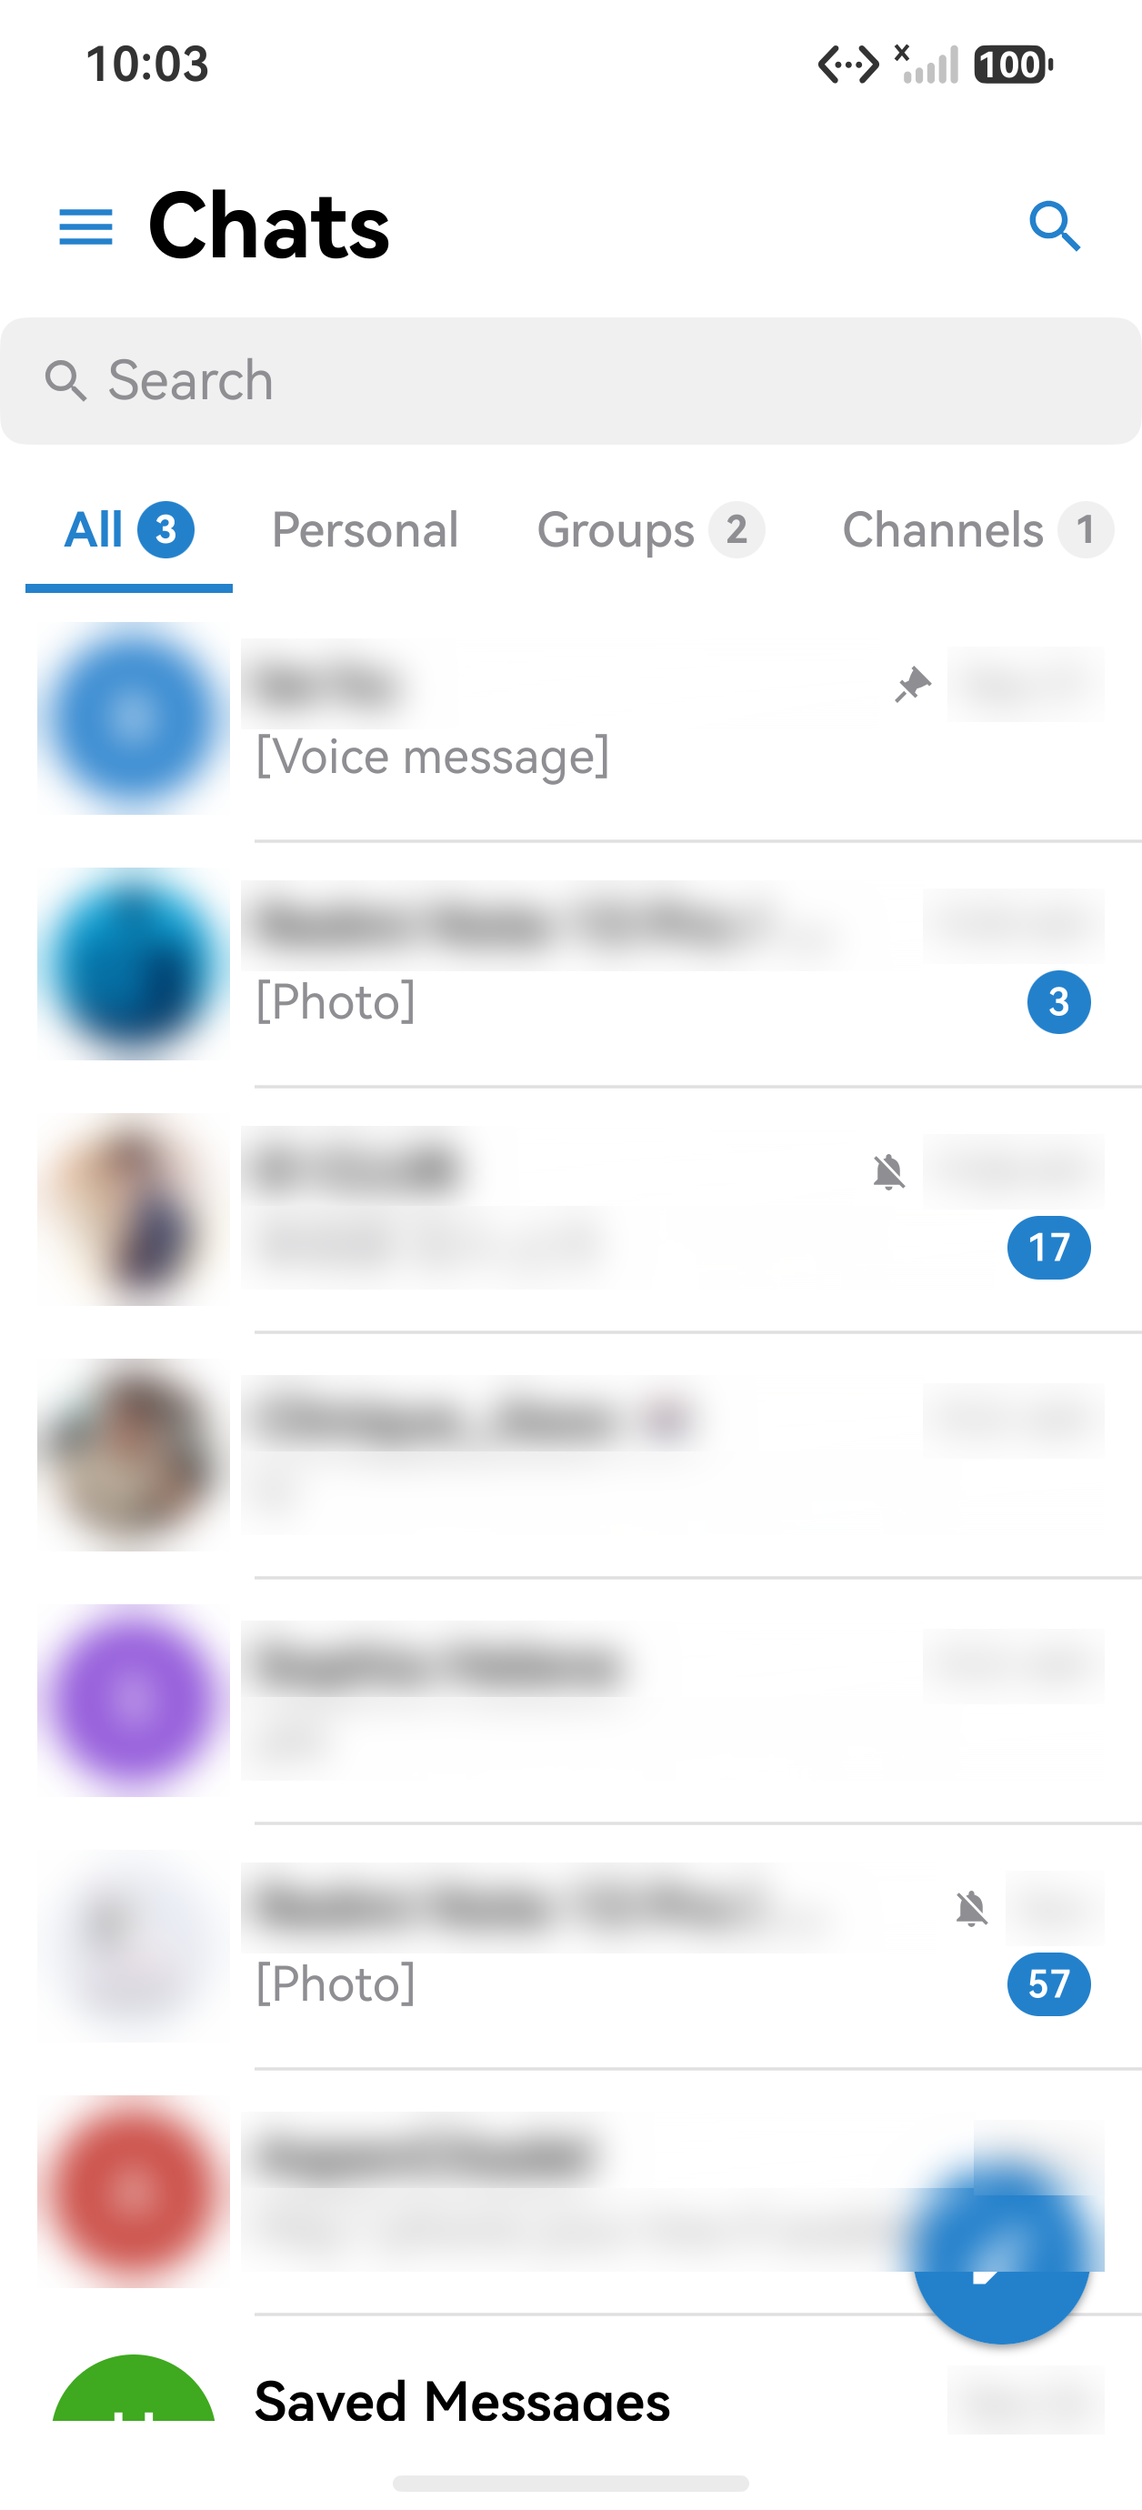
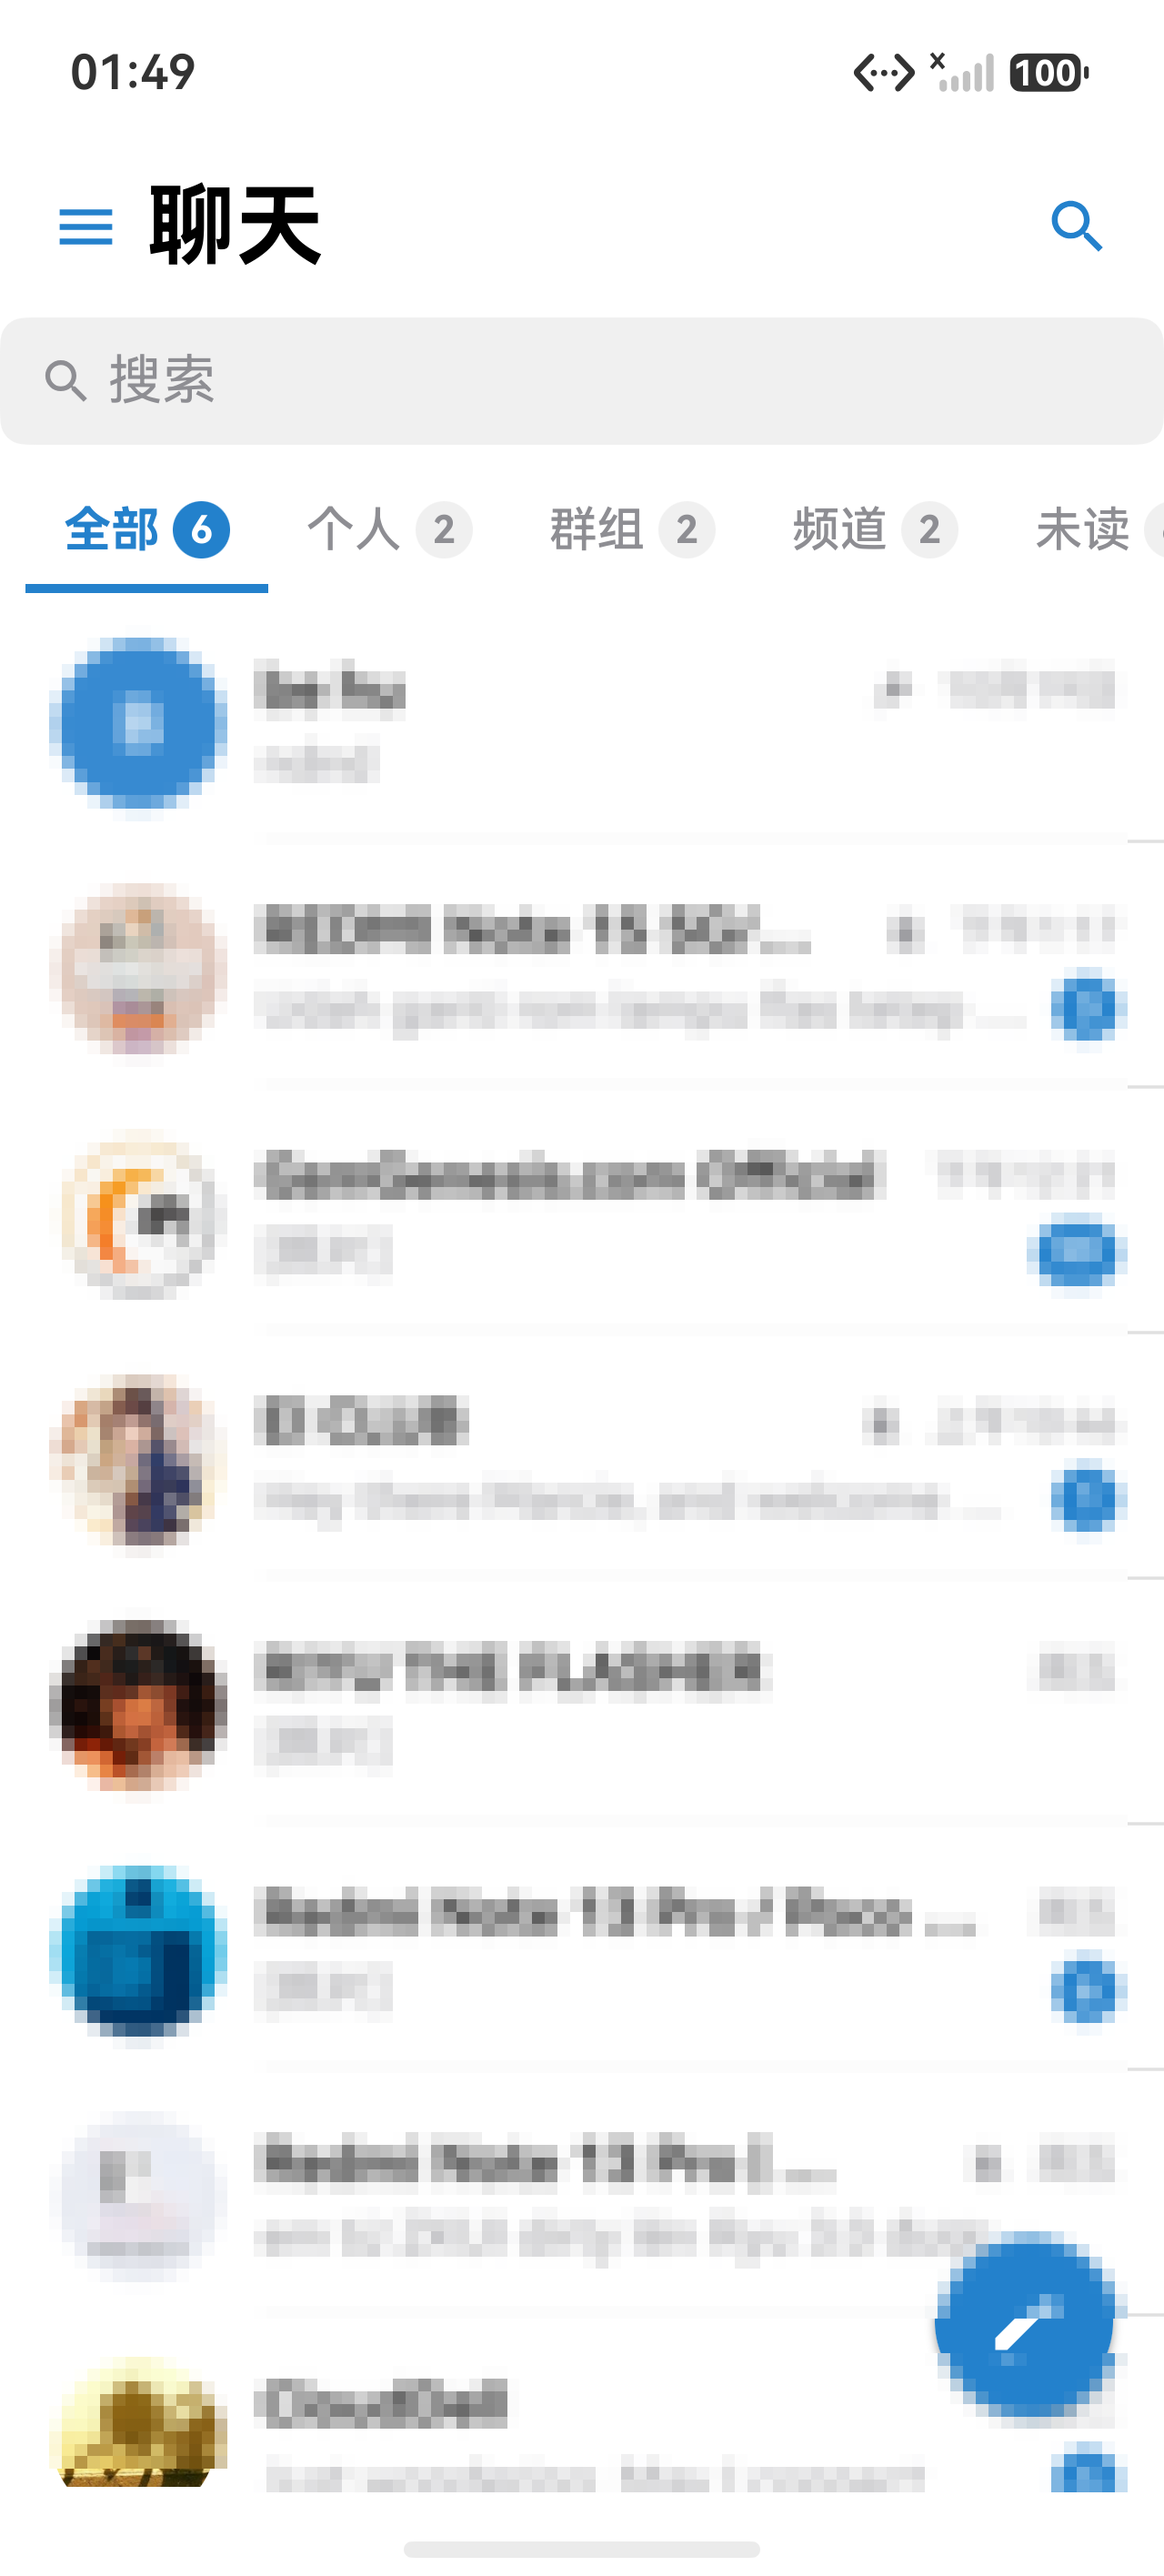
docs(readme): 界面截图全面更新（脱敏马赛克）+ 新增建群/多选/表情面板三图
- 重截：会话列表（行内容马赛克）、抽屉（账户头遮罩+建群建频道新入口）、
  消息流（收藏夹富文本演示内容，零 PII）、设置中心（账户头遮罩）、
  设备页（会话元数据遮蔽）
- 新增：建频道命名页 / 联系人多选（GROUP-CREATE-101）、表情面板（EMOJI-101）
- 贴纸面板/贴纸详情/深色/隐私/存储/锁定/语言等未改动页沿用既有截图
- 脱敏口径补充新方法说明（dumpLayout 节点边界马赛克）

diff --git a/README.md b/README.md
@@ -165,6 +165,13 @@ pages/（ArkUI 声明式渲染，只读 UiState）
 | <img src="docs/images/preview_chats.png" width="228" alt="会话列表" /> | <img src="docs/images/preview_chat_detail.png" width="228" alt="消息气泡与链接渲染" /> | <img src="docs/images/preview_sticker_preview.png" width="228" alt="贴纸包详情" /> | <img src="docs/images/preview_sticker_board.png" width="228" alt="贴纸面板" /> |
 | **搜索、页签计数、置顶与未读徽标** | **链接实体、网页预览卡与贴纸气泡** | **半模态弹窗与五列网格** | **最近使用行与 TDLib 真实装包入口** |
 
+#### 建群建频道与输入面板
+
+| 新建频道命名页 | 联系人多选（建群选成员） | 表情面板 |
+| :---: | :---: | :---: |
+| <img src="docs/images/preview_group_naming.png" width="228" alt="新建频道命名页" /> | <img src="docs/images/preview_contacts_multiselect.png" width="228" alt="联系人多选" /> | <img src="docs/images/preview_emoji_board.png" width="228" alt="表情面板" /> |
+| **标题/简介输入与创建入口（标题 1-128 字本地校验）** | **点选顺序即成员顺序与 Next (N) 确认栏** | **最近使用行与表情/贴纸/GIF 三页签** |
+
 #### 深色模式与中文界面
 
 | 深色 · 会话内 | 深色 · 设置中心 | 简体中文 · 设置中心 |
@@ -177,7 +184,7 @@ pages/（ArkUI 声明式渲染，只读 UiState）
 | 设置首页 | 侧边栏抽屉导航 | 存储与外观分区 | 屏幕锁定 | 活跃设备与会话 |
 | :---: | :---: | :---: | :---: | :---: |
 | <img src="docs/images/preview_settings.png" width="228" alt="设置中心" /> | <img src="docs/images/preview_drawer.png" width="228" alt="侧边栏抽屉" /> | <img src="docs/images/preview_storage_appearance.png" width="228" alt="存储与外观" /> | <img src="docs/images/preview_screen_lock.png" width="228" alt="屏幕锁定" /> | <img src="docs/images/preview_devices.png" width="228" alt="活跃设备与会话" /> |
-| **通知、设备、隐私与缓存清理** | **账号头（身份字段已遮罩）与功能入口** | **缓存用量、贴纸循环、主题与字号** | **访问码开关与自动锁定档位** | **会话列表与一键注销入口** |
+| **通知、设备、隐私与缓存清理** | **账号头（身份字段已遮罩）与建群/建频道入口** | **缓存用量、贴纸循环、主题与字号** | **访问码开关与自动锁定档位** | **会话列表与一键注销入口** |
 
 #### 隐私与安全
 
@@ -193,7 +200,7 @@ pages/（ArkUI 声明式渲染，只读 UiState）
 | <img src="docs/images/preview_auto_download.png" width="228" alt="自动媒体下载" /> |
 | **省流量门与按网络类型的限制档位** |
 
-> 🛡 **脱敏口径**：截图由 `uitest dumpLayout` 的节点边界驱动遮罩——只有「渲染串命中 `core/common` 词典（EN/ZH 两份）的 key 或 value」「纯计数 / 时刻 / 缓存用量」「公开目录内容（贴纸包名与缩略图）」三类保留，其余文本节点与头像、图片节点一律重高斯模糊（半径 15、5 次）。设置子页以覆盖层渲染，遮罩会先做前/后台页面切分，再用覆盖层边界裁剪后台区域，避免把模糊糊到弹层上。会话列表与抽屉、设备页因此只剩界面骨架；消息气泡与贴纸面板一栏用自建会话（Saved Messages）里自己写入的演示内容，避免用真实会话换取可读性。
+> 🛡 **脱敏口径**：截图由 `uitest dumpLayout` 的节点边界驱动遮罩（2026-11-21 起新图为按节点边界马赛克，历史图为高斯模糊）——只有「渲染串命中 `core/common` 词典（EN/ZH 两份）的 key 或 value」「纯计数 / 时刻 / 缓存用量」「公开目录内容（贴纸包名与缩略图）」三类保留，其余文本节点与头像、图片节点一律重高斯模糊（半径 15、5 次）。设置子页以覆盖层渲染，遮罩会先做前/后台页面切分，再用覆盖层边界裁剪后台区域，避免把模糊糊到弹层上。会话列表与抽屉、设备页因此只剩界面骨架；消息气泡与贴纸面板一栏用自建会话（Saved Messages）里自己写入的演示内容，避免用真实会话换取可读性。
 
 ---
 
